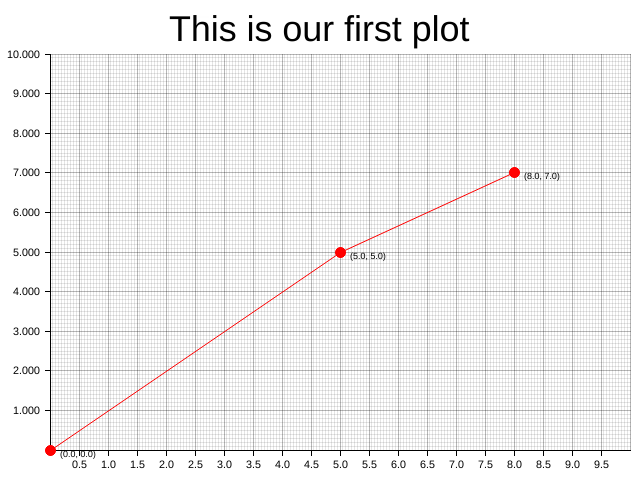
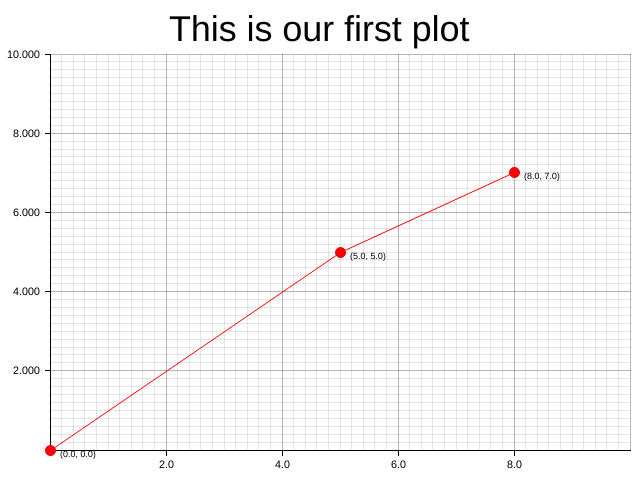
Update doc

Changed region(s): [[0.0, 0.0938, 1.0, 0.9688]]

diff --git a/src/lib.rs b/src/lib.rs
@@ -15,6 +15,7 @@
 Plotters is a flexible drawing library for data visualization written in pure Rust for both native and WebAssembly.
 
 - Why plotting in Rust?
+
 Although rendering a figure doesn't requires too many computation power in most of the case,
 and programming language such as Python and Javascript is used for visualization purpose.
 Sometimes we need to make a figure based on huge amount of data, for example, rendering some
@@ -23,18 +24,18 @@ with many high-level programming language. In this case, Rust is a perfect candi
 figures, since it runs very fast while having high-level abstraction abilities.
 
 - What type of figure is supported?
+
 Currently, we support line series, point series and candlestick series.
 And the library is designed to be able to render multiple figure into a single image.
 But Plotter is aimed to be a platform that is fully extendable to supporting any other types of figure.
 
 - Plotting on HTML5 canvas
+
 Plotters currently supports backend that uses the HTML5 canvas. To use the WASM support, you can simply create
 `CanvasBackend` instead of other backend and all other API remains the same!
-Check the demo that uses Plotters with WASM at [here](http://home.chpc.utah.edu/~u0875014/wasm-test/).
-An sample WASM application is avaiable at examples/wasm-demo. To try it just simply run the shell script `start-server.sh` under 
-that directory.
-And the demo is avaiable at [this link](https://plumberserver.com/plotters-wasm-demo/index.html) as well.
 
+There's a small demo for Plotters + WASM under `examples/wasm-demo` directory of this repo. 
+And you should be able to try the deployed version with the following [link](https://plumberserver.com/plotters-wasm-demo/index.html).
 
 ## Gallery
 
@@ -249,8 +250,8 @@ fn main() -> Result<(), Box<dyn std::error::Error>> {
     // Then we can draw a mesh
     chart.configure_mesh()
         // We can customize the maxium number of labels allowed for each axis
-        .x_labels(30)
-        .y_labels(10)
+        .x_labels(5)
+        .y_labels(5)
         // We can also change the format of the label text
         .y_label_formatter(&|x| format!("{:.3}", x))
         .draw()?;

diff --git a/README.md b/README.md
@@ -13,9 +13,8 @@
 
 
 
-Plotters is a flexible drawing library for data visualization written in pure Rust.
-
 - Why plotting in Rust?
+
 Although rendering a figure doesn't requires too many computation power in most of the case,
 and programming language such as Python and Javascript is used for visualization purpose.
 Sometimes we need to make a figure based on huge amount of data, for example, rendering some
@@ -24,18 +23,18 @@ with many high-level programming language. In this case, Rust is a perfect candi
 figures, since it runs very fast while having high-level abstraction abilities.
 
 - What type of figure is supported?
+
 Currently, we support line series, point series and candlestick series.
 And the library is designed to be able to render multiple figure into a single image.
 But Plotter is aimed to be a platform that is fully extendable to supporting any other types of figure.
 
 - Plotting on HTML5 canvas
+
 Plotters currently supports backend that uses the HTML5 canvas. To use the WASM support, you can simply create
 `CanvasBackend` instead of other backend and all other API remains the same!
-Check the demo that uses Plotters with WASM at [here](http://home.chpc.utah.edu/~u0875014/wasm-test/)
-An sample WASM application is avaiable at examples/wasm-demo. To try it just simply run the shell script `start-server.sh` under 
-that directory.
-And the demo is avaiable at [this link](https://plumberserver.com/plotters-wasm-demo/index.html) as well.
 
+There's a small demo for Plotters + WASM under `examples/wasm-demo` directory of this repo. 
+And you should be able to try the deployed version with the following [link](https://plumberserver.com/plotters-wasm-demo/index.html).
 
 ### Gallery
 

diff --git a/examples/wasm-demo/README.md b/examples/wasm-demo/README.md
@@ -1,0 +1,7 @@
+# The Minimal Demo for Plotters + WASM
+
+Run the demo locally with the following command under this directory.
+
+```
+./start-server.sh
+```
